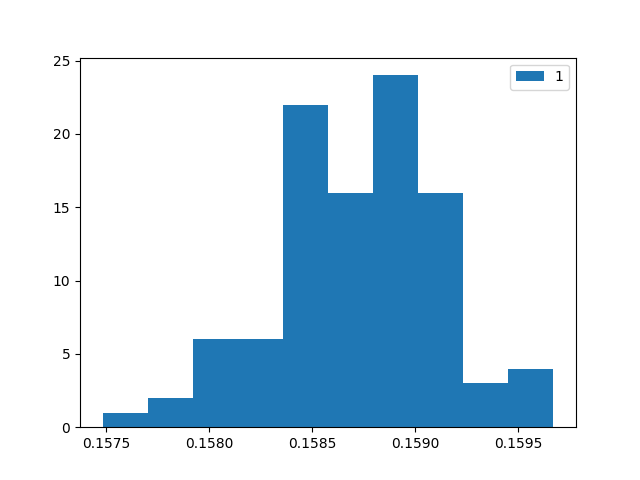
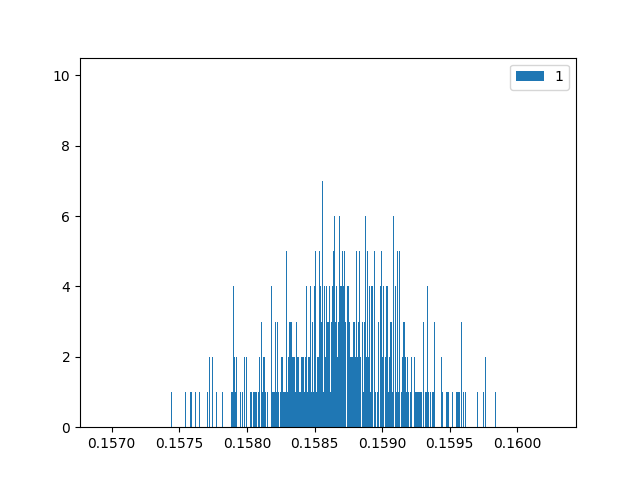
Parameterizing Visualization

diff --git a/rng_10params.py b/rng_10params.py
@@ -1,4 +1,3 @@
-# -*- coding: utf-8 -*-
 """
 Created on Sun Apr 17 12:32:29 2022
 
@@ -50,12 +49,12 @@ def test_val(Y):
           (Y[3] >= 0.9 and Y[3] <= 1.5)]
     return t
 
-def plot_distro():
-    for i in range(10):
+def plot_distro(N,bins,Events,dimen = 1):
+    for i in range(dimen):
         x = []
-        for j in range(100):
-            x.append(List[j][i])
-        plt.hist(x,label = str(i+1))
+        for j in range(N):
+            x.append(Events[j][i])
+        plt.hist(x,bins,label = str(i+1))
     plt.legend()
     plt.show()
 
@@ -70,13 +69,14 @@ def plot_relation(par1,par2,all_draws):
     plt.xlabel("Variable " + str(par1+1))   
     plt.show() 
 
-
-if __name__ == "__main__":
+def Monte_Carlo_events(N,bins = 0,vis = False):
     List = []
-    for i in range(100):
+    for i in range(N):
         Y = random_params()
         List.append(Y)
-    #plot_distro()
-    plot_relation(0,1,List)
-        
-    
+    if vis == True:    
+        plot_distro(N,bins,List,2)
+    return List    
+
+if __name__ == "__main__":
+    Monte_Carlo_events(10000,10000,True)    
